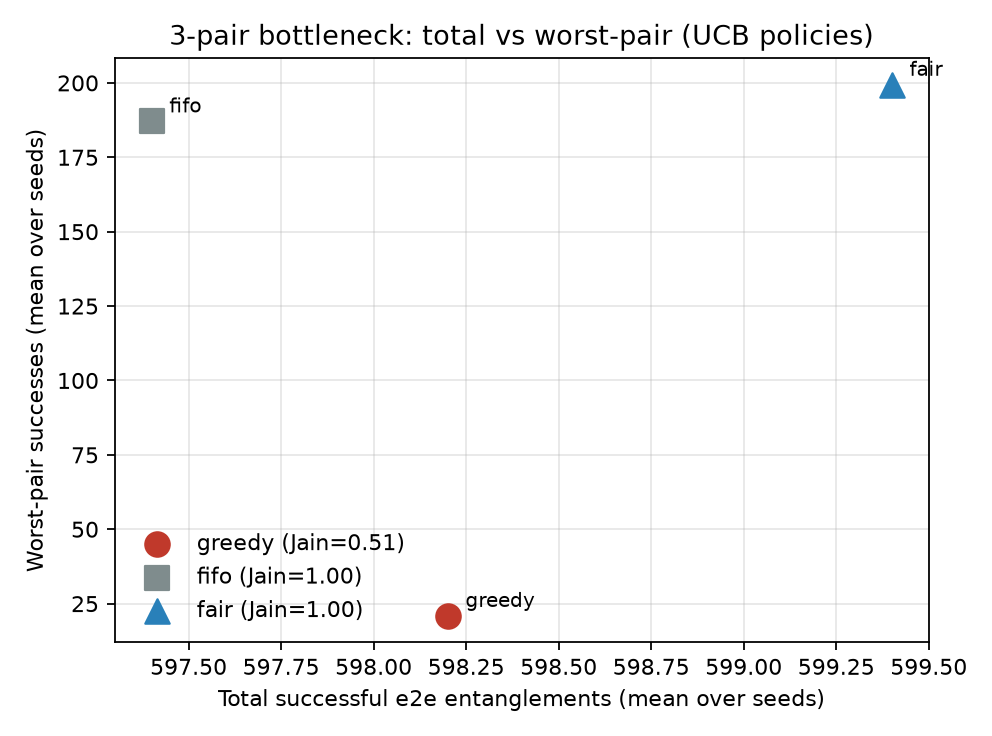
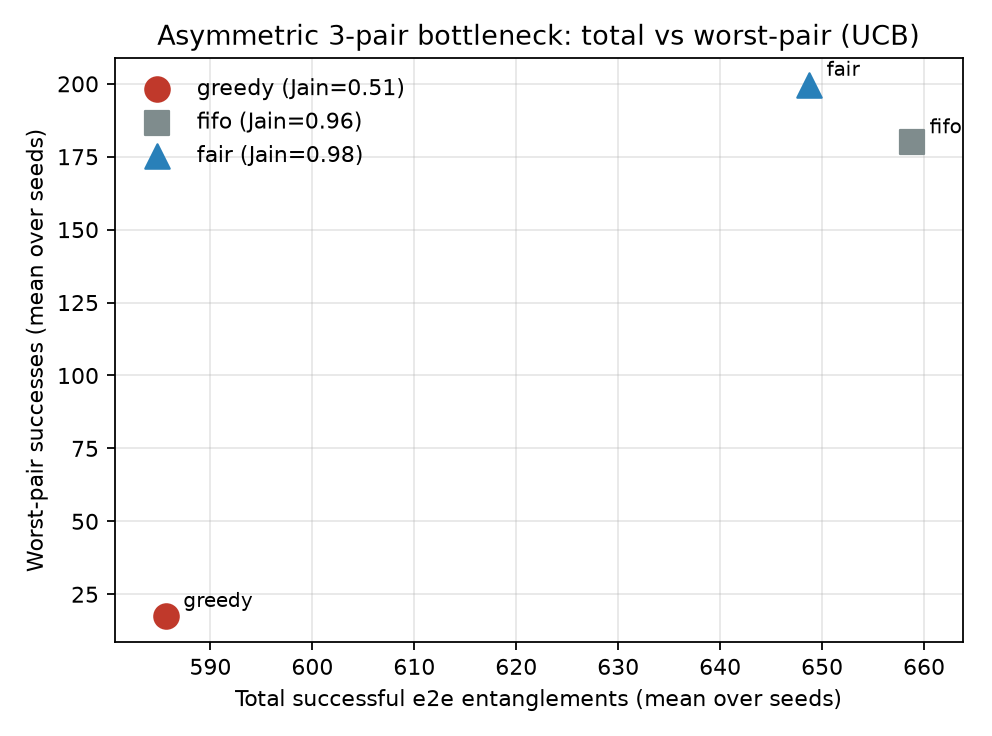
Fix asymmetric headline suite and reframe same-policy diagnostic.
Add path-quality asymmetry so deficit-fair beats FIFO on worst-pair; drop oracle upper-bound / regret framing; refresh results and README claims.

diff --git a/src/fair_qroute/experiment.py b/src/fair_qroute/experiment.py
@@ -1,4 +1,4 @@
-"""ID-style sweeps: 1-pair, 3-pair contention, drift; headline plot + tables."""
+"""Sweeps: 1-pair, symmetric 3-pair, asymmetric 3-pair (headline), diagnostic, drift."""
 
 from __future__ import annotations
 
@@ -33,6 +33,7 @@ def run_policy_seeds(
     seeds: range,
     use_oracle: bool = False,
     drift_at: int | None = None,
+    asymmetric: bool = False,
 ) -> list[SimResult]:
     return [
         run_sim(
@@ -43,6 +44,7 @@ def run_policy_seeds(
             use_oracle=use_oracle,
             drift_at=drift_at,
             ucb_window=UCB_WINDOW,
+            asymmetric=asymmetric,
         )
         for s in seeds
     ]
@@ -53,36 +55,73 @@ def suite_low_contention(T: int, seeds: range) -> list[dict]:
     for pol in Policy:
         res = run_policy_seeds(pol, n_pairs=1, T=T, seeds=seeds)
         m = _mean_summary(res)
-        rows.append({"suite": "low_1pair", "policy": pol.value, "oracle": False, **m, "n_seeds": len(seeds), "T": T})
+        rows.append(
+            {"suite": "low_1pair", "policy": pol.value, "oracle": False, **m, "n_seeds": len(seeds), "T": T}
+        )
     return rows
 
 
-def suite_high_contention(T: int, seeds: range) -> list[dict]:
+def suite_high_contention(T: int, seeds: range, *, asymmetric: bool) -> list[dict]:
+    label = "high_3pair_asymmetric" if asymmetric else "high_3pair_symmetric"
     rows: list[dict] = []
     for pol in Policy:
-        res = run_policy_seeds(pol, n_pairs=3, T=T, seeds=seeds)
+        res = run_policy_seeds(pol, n_pairs=3, T=T, seeds=seeds, asymmetric=asymmetric)
         m = _mean_summary(res)
-        rows.append({"suite": "high_3pair", "policy": pol.value, "oracle": False, **m, "n_seeds": len(seeds), "T": T})
+        rows.append(
+            {
+                "suite": label,
+                "policy": pol.value,
+                "oracle": False,
+                "asymmetric": asymmetric,
+                **m,
+                "n_seeds": len(seeds),
+                "T": T,
+            }
+        )
     return rows
 
 
-def suite_oracle_table(T: int, seeds: range) -> list[dict]:
-    """2x2: {greedy, fair} x {UCB, oracle}. Same-policy regret only."""
+def suite_same_policy_diagnostic(T: int, seeds: range) -> list[dict]:
+    """2x2 {greedy, fair} x {UCB, true-p}: diagnostic only — not a throughput upper bound.
+
+    True-p greedy tie-breaks by pair id under equal path products; UCB optimistic
+    init can create parallel grants. Delta = truep_total - ucb_total may be negative.
+    """
     rows: list[dict] = []
     for pol in (Policy.GREEDY, Policy.FAIR):
-        learn = run_policy_seeds(pol, n_pairs=3, T=T, seeds=seeds, use_oracle=False)
-        oracle = run_policy_seeds(pol, n_pairs=3, T=T, seeds=seeds, use_oracle=True)
-        lm, om = _mean_summary(learn), _mean_summary(oracle)
-        rows.append({"suite": "oracle_2x2", "policy": pol.value, "mode": "ucb", **lm, "n_seeds": len(seeds), "T": T})
-        rows.append({"suite": "oracle_2x2", "policy": pol.value, "mode": "oracle", **om, "n_seeds": len(seeds), "T": T})
-        # same-policy total regret (mean over seeds of oracle_total - learn_total)
-        regrets = [o.summary["total"] - l.summary["total"] for l, o in zip(learn, oracle)]
+        learn = run_policy_seeds(pol, n_pairs=3, T=T, seeds=seeds, use_oracle=False, asymmetric=True)
+        truep = run_policy_seeds(pol, n_pairs=3, T=T, seeds=seeds, use_oracle=True, asymmetric=True)
+        lm, tm = _mean_summary(learn), _mean_summary(truep)
         rows.append(
             {
-                "suite": "same_policy_regret",
+                "suite": "same_policy_diagnostic",
                 "policy": pol.value,
-                "mean_regret_total": float(np.mean(regrets)),
-                "std_regret_total": float(np.std(regrets)),
+                "mode": "ucb",
+                "note": "not_an_upper_bound",
+                **lm,
+                "n_seeds": len(seeds),
+                "T": T,
+            }
+        )
+        rows.append(
+            {
+                "suite": "same_policy_diagnostic",
+                "policy": pol.value,
+                "mode": "true_p",
+                "note": "not_an_upper_bound",
+                **tm,
+                "n_seeds": len(seeds),
+                "T": T,
+            }
+        )
+        deltas = [t.summary["total"] - l.summary["total"] for l, t in zip(learn, truep)]
+        rows.append(
+            {
+                "suite": "same_policy_diagnostic_delta",
+                "policy": pol.value,
+                "mean_truep_minus_ucb_total": float(np.mean(deltas)),
+                "std_truep_minus_ucb_total": float(np.std(deltas)),
+                "note": "negative_means_ucb_total_exceeded_truep_tiebreak_greedy",
                 "n_seeds": len(seeds),
                 "T": T,
             }
@@ -93,13 +132,15 @@ def suite_oracle_table(T: int, seeds: range) -> list[dict]:
 def suite_drift(T: int, seeds: range, drift_at: int = DRIFT_AT) -> list[dict]:
     rows: list[dict] = []
     for pol in (Policy.GREEDY, Policy.FAIR):
-        learn = run_policy_seeds(pol, n_pairs=3, T=T, seeds=seeds, use_oracle=False, drift_at=drift_at)
-        oracle = run_policy_seeds(pol, n_pairs=3, T=T, seeds=seeds, use_oracle=True, drift_at=drift_at)
-        # windowed regret on total-per-round, post-drift windows
+        learn = run_policy_seeds(
+            pol, n_pairs=3, T=T, seeds=seeds, use_oracle=False, drift_at=drift_at, asymmetric=True
+        )
+        truep = run_policy_seeds(
+            pol, n_pairs=3, T=T, seeds=seeds, use_oracle=True, drift_at=drift_at, asymmetric=True
+        )
         win_regs = []
-        for l, o in zip(learn, oracle):
+        for l, o in zip(learn, truep):
             wr = windowed_regret(l.total_per_round, o.total_per_round, REGRET_WINDOW)
-            # windows after drift
             start_w = drift_at // REGRET_WINDOW
             win_regs.append(float(np.mean(wr[start_w:])) if wr[start_w:] else 0.0)
         rows.append(
@@ -107,15 +148,17 @@ def suite_drift(T: int, seeds: range, drift_at: int = DRIFT_AT) -> list[dict]:
                 "suite": "drift",
                 "policy": pol.value,
                 "drift_at": drift_at,
-                "post_drift_mean_window_regret": float(np.mean(win_regs)),
+                "post_drift_mean_window_delta": float(np.mean(win_regs)),
+                "note": "windowed truep_minus_ucb; not cumulative regret upper bound",
                 "learn_total_mean": _mean_summary(learn)["total"],
-                "oracle_total_mean": _mean_summary(oracle)["total"],
+                "truep_total_mean": _mean_summary(truep)["total"],
                 "learn_worst_mean": _mean_summary(learn)["worst"],
-                "oracle_worst_mean": _mean_summary(oracle)["worst"],
+                "truep_worst_mean": _mean_summary(truep)["worst"],
                 "n_seeds": len(seeds),
                 "T": T,
                 "ucb": "sliding_window",
                 "ucb_window": UCB_WINDOW,
+                "asymmetric": True,
             }
         )
     return rows
@@ -136,15 +179,17 @@ def write_csv(path: Path, rows: list[dict]) -> None:
         w.writerows(rows)
 
 
-def plot_headline(high_rows: list[dict], out: Path) -> None:
-    """Scatter: total vs worst-pair for UCB greedy / FIFO / fair."""
+def plot_headline(rows: list[dict], out: Path, suite: str = "high_3pair_asymmetric") -> None:
+    """Scatter: total vs worst-pair for UCB greedy / FIFO / fair (asymmetric headline)."""
     fig, ax = plt.subplots(figsize=(6.2, 4.6))
     markers = {"greedy": "o", "fifo": "s", "fair": "^"}
     colors = {"greedy": "#c0392b", "fifo": "#7f8c8d", "fair": "#2980b9"}
-    for row in high_rows:
-        if row.get("suite") != "high_3pair":
+    xs: list[float] = []
+    for row in rows:
+        if row.get("suite") != suite:
             continue
         pol = row["policy"]
+        xs.append(row["total"])
         ax.scatter(
             row["total"],
             row["worst"],
@@ -155,9 +200,12 @@ def plot_headline(high_rows: list[dict], out: Path) -> None:
             zorder=3,
         )
         ax.annotate(pol, (row["total"], row["worst"]), textcoords="offset points", xytext=(8, 4), fontsize=9)
+    if xs:
+        pad = max(5.0, 0.02 * (max(xs) - min(xs) + 1))
+        ax.set_xlim(min(xs) - pad, max(xs) + pad)
     ax.set_xlabel("Total successful e2e entanglements (mean over seeds)")
     ax.set_ylabel("Worst-pair successes (mean over seeds)")
-    ax.set_title("3-pair bottleneck: total vs worst-pair (UCB policies)")
+    ax.set_title("Asymmetric 3-pair bottleneck: total vs worst-pair (UCB)")
     ax.legend(frameon=False, loc="best")
     ax.grid(True, alpha=0.3)
     fig.tight_layout()
@@ -170,17 +218,23 @@ def run_all(out_dir: Path, T: int = T_DEFAULT, n_seeds: int = N_SEEDS) -> None:
     seeds = range(n_seeds)
     print("Low contention (1 pair)...")
     low = suite_low_contention(T, seeds)
-    print("High contention (3 pairs)...")
-    high = suite_high_contention(T, seeds)
-    print("Oracle 2x2 + same-policy regret...")
-    oracle = suite_oracle_table(T, seeds)
+    print("Symmetric 3-pair (fair ≈ FIFO expected)...")
+    sym = suite_high_contention(T, seeds, asymmetric=False)
+    print("Asymmetric 3-pair (headline)...")
+    asym = suite_high_contention(T, seeds, asymmetric=True)
+    print("Same-policy diagnostic (not an upper bound)...")
+    diag = suite_same_policy_diagnostic(T, seeds)
     print("Drift (sliding-window UCB)...")
     drift = suite_drift(T, seeds)
 
-    write_csv(out_dir / "fairness_table.csv", low + high)
-    write_csv(out_dir / "oracle_regret.csv", oracle)
+    write_csv(out_dir / "fairness_table.csv", low + sym + asym)
+    write_csv(out_dir / "same_policy_diagnostic.csv", diag)
     write_csv(out_dir / "drift.csv", drift)
-    plot_headline(high, out_dir / "headline_fairness.png")
+    # keep old filename as pointer-free removal; do not write oracle_regret.csv
+    old = out_dir / "oracle_regret.csv"
+    if old.exists():
+        old.unlink()
+    plot_headline(asym, out_dir / "headline_fairness.png")
     print(f"wrote {out_dir}")
 
 

diff --git a/src/fair_qroute/topology.py b/src/fair_qroute/topology.py
@@ -13,9 +13,12 @@ from dataclasses import dataclass, field
 
 CENTRE_EDGE = (3, 4)
 PARALLEL_CROSSINGS = ((0, 1), (6, 7))
+# Pair 2 (6→5) unique first hop on the centre path; lowered in asymmetric map only.
+WEAK_PAIR_EDGE = (6, 3)
 P_CENTRE = 0.9
 P_PARALLEL = 0.5
 P_OTHER = 0.8
+P_WEAK_HOP = 0.45
 
 # Left column → rightish targets; all cross cut {0,3,6} | rest via centre or parallels.
 DEFAULT_PAIRS: tuple[tuple[int, int], ...] = ((0, 5), (3, 2), (6, 5))
@@ -37,16 +40,23 @@ def grid_edges_3x3() -> list[tuple[int, int]]:
     return sorted(set(edges))
 
 
-def pinned_p_map() -> dict[tuple[int, int], float]:
-    """Engineered bottleneck: centre high, parallel crossings low, rest mid."""
+def pinned_p_map(*, asymmetric: bool = False) -> dict[tuple[int, int], float]:
+    """Engineered bottleneck: centre high, parallel crossings low, rest mid.
+
+    asymmetric=True lowers WEAK_PAIR_EDGE so pair 2's centre path has a worse
+    product — FIFO wastes centre slots on it; deficit-fair still equalizes successes.
+    """
     p: dict[tuple[int, int], float] = {}
     centre = _canon(*CENTRE_EDGE)
     parallels = {_canon(*e) for e in PARALLEL_CROSSINGS}
+    weak = _canon(*WEAK_PAIR_EDGE)
     for e in grid_edges_3x3():
         if e == centre:
             p[e] = P_CENTRE
         elif e in parallels:
             p[e] = P_PARALLEL
+        elif asymmetric and e == weak:
+            p[e] = P_WEAK_HOP
         else:
             p[e] = P_OTHER
     return p
@@ -78,7 +88,7 @@ class Topology:
         return adj
 
     def set_p(self, p: dict[tuple[int, int], float]) -> None:
-        self.p = { _canon(*k): float(v) for k, v in p.items() }
+        self.p = {_canon(*k): float(v) for k, v in p.items()}
 
     def p_of(self, u: int, v: int) -> float:
         return self.p[_canon(u, v)]

diff --git a/tests/test_allocators.py b/tests/test_allocators.py
@@ -43,7 +43,13 @@ def test_one_pair_policies_close() -> None:
 
 
 def test_fair_improves_worst_vs_greedy() -> None:
-    g = run_sim(Policy.GREEDY, n_pairs=3, T=800, seed=2)
-    fair = run_sim(Policy.FAIR, n_pairs=3, T=800, seed=2)
+    g = run_sim(Policy.GREEDY, n_pairs=3, T=800, seed=2, asymmetric=True)
+    fair = run_sim(Policy.FAIR, n_pairs=3, T=800, seed=2, asymmetric=True)
     assert fair.summary["worst"] >= g.summary["worst"]
     assert fair.summary["jain"] >= g.summary["jain"] - 1e-9
+
+
+def test_asymmetric_fair_beats_fifo_worst() -> None:
+    fifo = run_sim(Policy.FIFO, n_pairs=3, T=1000, seed=3, asymmetric=True)
+    fair = run_sim(Policy.FAIR, n_pairs=3, T=1000, seed=3, asymmetric=True)
+    assert fair.summary["worst"] > fifo.summary["worst"]

diff --git a/src/fair_qroute/simulate.py b/src/fair_qroute/simulate.py
@@ -33,9 +33,11 @@ def run_sim(
     drift_at: int | None = None,
     ucb_window: int = 200,
     k: int = 3,
+    asymmetric: bool = False,
 ) -> SimResult:
     topo = Topology()
-    topo.set_p(pinned_p_map())
+    base_p = pinned_p_map(asymmetric=asymmetric)
+    topo.set_p(base_p)
     active = list(range(min(n_pairs, len(topo.pairs))))
     net = GridBernoulliNetwork(topo)
     ucb = SlidingWindowUCB(topo.edges, window=ucb_window)
@@ -46,7 +48,7 @@ def run_sim(
 
     for t in range(T):
         if drift_at is not None and t == drift_at:
-            topo.set_p(drifted_p_map())
+            topo.set_p(drifted_p_map(base_p))
         round_ok, rr_token = allocate_round(
             topo,
             net,

diff --git a/tests/test_topology.py b/tests/test_topology.py
@@ -26,6 +26,14 @@ def test_pinned_p_map() -> None:
     assert sum(1 for v in p.values() if v == P_OTHER) == 12 - 1 - len(PARALLEL_CROSSINGS)
 
 
+def test_asymmetric_weak_hop() -> None:
+    from fair_qroute.topology import P_WEAK_HOP, WEAK_PAIR_EDGE
+
+    p = pinned_p_map(asymmetric=True)
+    assert p[_canon(*WEAK_PAIR_EDGE)] == P_WEAK_HOP
+    assert pinned_p_map(asymmetric=False)[_canon(*WEAK_PAIR_EDGE)] == P_OTHER
+
+
 def test_drift_flips_centre() -> None:
     d = drifted_p_map()
     assert d[_canon(*CENTRE_EDGE)] == 0.4

diff --git a/README.md b/README.md
@@ -8,17 +8,17 @@ Question: **when several BeQuP-style pairs compete for the same links, who starv
 
 ![Total vs worst-pair](results/headline_fairness.png)
 
-See `results/fairness_table.csv`, `results/oracle_regret.csv`, `results/drift.csv`.
+Asymmetric 3-pair bottleneck (see below). Also `results/fairness_table.csv`, `results/same_policy_diagnostic.csv`, `results/drift.csv`.
 
 ## What this claims
 
 **Can claim**
 
-- Under exclusive all-or-nothing multi-pair contention with a **shared sliding-window UCB** and **no fallback**, selfish greedy-UCB wins total throughput but starves the worst pair.
-- Cumulative **deficit-fair** trades a little total for much higher worst-pair throughput and Jain index.
-- **FIFO/RR** is allocation-fair but path-dumb (same UCB BestPath proposal; only conflict order differs) and wastes the bottleneck slot.
+- Under exclusive all-or-nothing multi-pair contention with a **shared sliding-window UCB** and **no fallback**, greedy-UCB **starves** the worst pair. Totals across policies are essentially tied (~0 cost to fairness) — greedy does **not** win total throughput.
+- On an **asymmetric** path-quality map (one pair’s centre path has a weaker hop), cumulative **deficit-fair** lifts worst-pair vs greedy and **beats FIFO** on worst-pair: FIFO still rotates equally onto the weak path; deficit keeps serving until successes catch up.
+- On the **symmetric** map, fair ≈ FIFO (expected) — rotation alone fixes starvation; that suite is reported for honesty.
 - Low contention (1 pair): policies tie.
-- After mid-run drift, sliding-window UCB can re-learn (windowed / post-drift same-policy regret in CSV).
+- Sliding-window UCB after mid-run drift: see windowed same-policy diagnostic in `drift.csv` (not cumulative regret-as-bound).
 
 **Cannot claim**
 
@@ -26,7 +26,7 @@ See `results/fairness_table.csv`, `results/oracle_regret.csv`, `results/drift.cs
 - That \(p_\ell\) is fidelity — it is **link entanglement success probability per slot**; path succeeds iff all links succeed.
 - Purification, swap fidelity degradation, or inter-domain QBGP / QPSEL (mentored growth).
 - That deficit-first is optimal max-min.
-- Cross-comparing fair-UCB regret to a greedy oracle (confounds fairness with learning).
+- That the true-\(p\) same-policy column is a **throughput upper bound** or that “regret” is non-negative — optimistic UCB can create parallel grants under capped init; see diagnostic CSV note.
 - That losers update link estimates, or that pairs retry a detour the same round (**no fallback**).
 
 ## Locked design choices
@@ -37,18 +37,19 @@ See `results/fairness_table.csv`, `results/oracle_regret.csv`, `results/drift.cs
 | Learning | **One shared** sliding-window UCB per link; optimistic init 1.0 |
 | Proposal | Single UCB BestPath among **k=3** shortest-hop candidates; **no fallback** |
 | Policies (plot) | greedy (path-UCB order), FIFO (RR token), fair (cumulative deficit) |
-| Oracle | Same policy, true \(p\); table only — 2×2 `{greedy,fair}×{UCB,oracle}` |
+| True-\(p\) column | Same policy, true \(p\); **diagnostic only**, not an oracle upper bound |
 | Topology | Fixed 3×3 grid; 3 pairs `(0,5),(3,2),(6,5)` |
 
 ### Pinned \(p\) map (engineered bottleneck)
 
-| Edge class | Edges | \(p_\ell\) |
-|------------|-------|-----------|
-| Centre | `(3,4)` | **0.9** |
-| Parallel crossings | `(0,1)`, `(6,7)` | **0.5** |
-| Other | remaining 9 edges | **0.8** |
+| Edge class | Edges | Symmetric \(p_\ell\) | Asymmetric \(p_\ell\) |
+|------------|-------|----------------------|----------------------|
+| Centre | `(3,4)` | **0.9** | **0.9** |
+| Parallel crossings | `(0,1)`, `(6,7)` | **0.5** | **0.5** |
+| Weak hop (pair 2) | `(6,3)` | 0.8 | **0.45** |
+| Other | remaining | **0.8** | **0.8** |
 
-Topology alone does not force sharing — this \(p\) map does. Drift (mid-run): centre → 0.4, parallels → 0.9.
+Headline uses **asymmetric**. Symmetric is in the table to show fair ≈ FIFO when path products match. Drift (mid-run): centre → 0.4, parallels → 0.9.
 
 ### Deficit / FIFO
 
